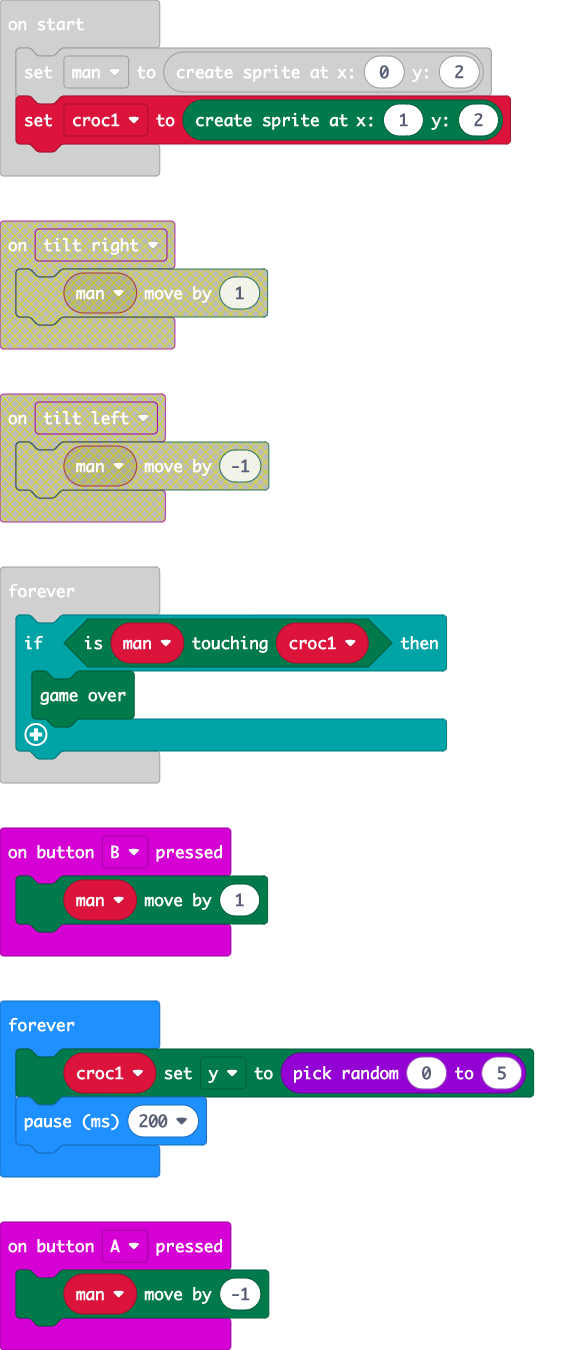
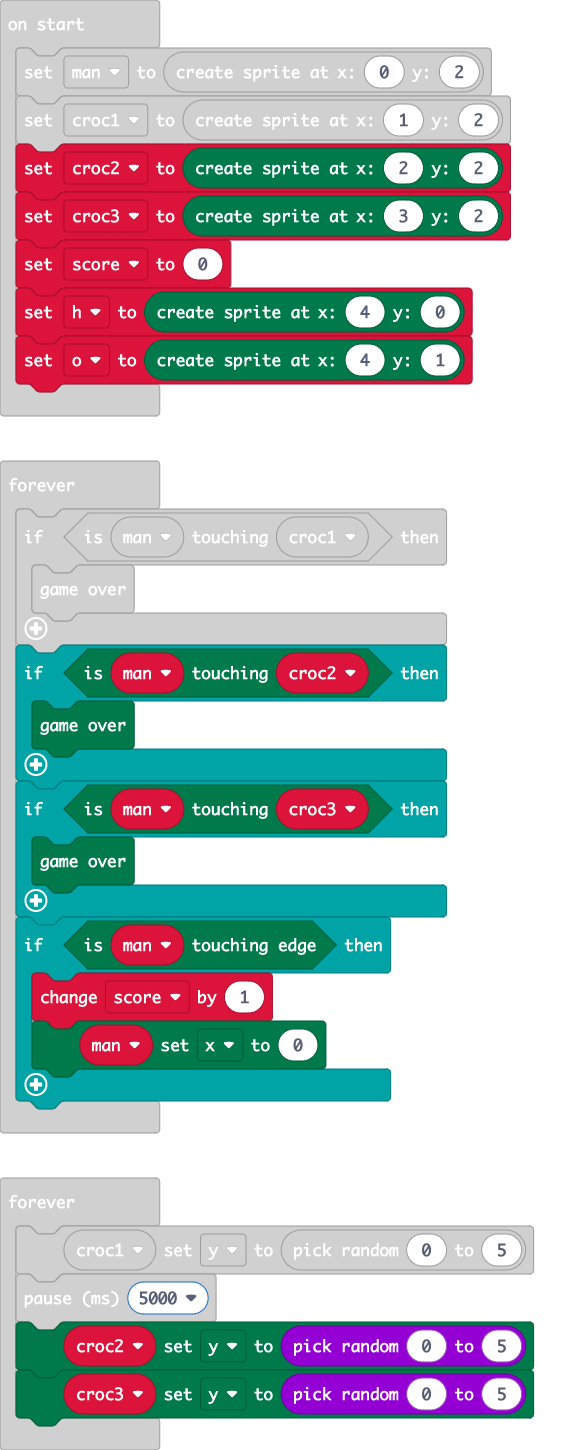
Update main.blocks, main.ts

diff --git a/main.ts b/main.ts
@@ -13,12 +13,29 @@ input.onGesture(Gesture.LogoDown, function () {
 let man: game.LedSprite = null
 man = game.createSprite(0, 2)
 let croc1 = game.createSprite(1, 2)
+let croc2 = game.createSprite(2, 2)
+let croc3 = game.createSprite(3, 2)
+let score = 0
+let h = game.createSprite(4, 0)
+let o = game.createSprite(4, 1)
 basic.forever(function () {
     if (man.isTouching(croc1)) {
         game.gameOver()
     }
+    if (man.isTouching(croc2)) {
+        game.gameOver()
+    }
+    if (man.isTouching(croc3)) {
+        game.gameOver()
+    }
+    if (man.isTouchingEdge()) {
+        score += 1
+        man.set(LedSpriteProperty.X, 0)
+    }
 })
 basic.forever(function () {
     croc1.set(LedSpriteProperty.Y, randint(0, 5))
-    basic.pause(200)
+    basic.pause(5000)
+    croc2.set(LedSpriteProperty.Y, randint(0, 5))
+    croc3.set(LedSpriteProperty.Y, randint(0, 5))
 })
